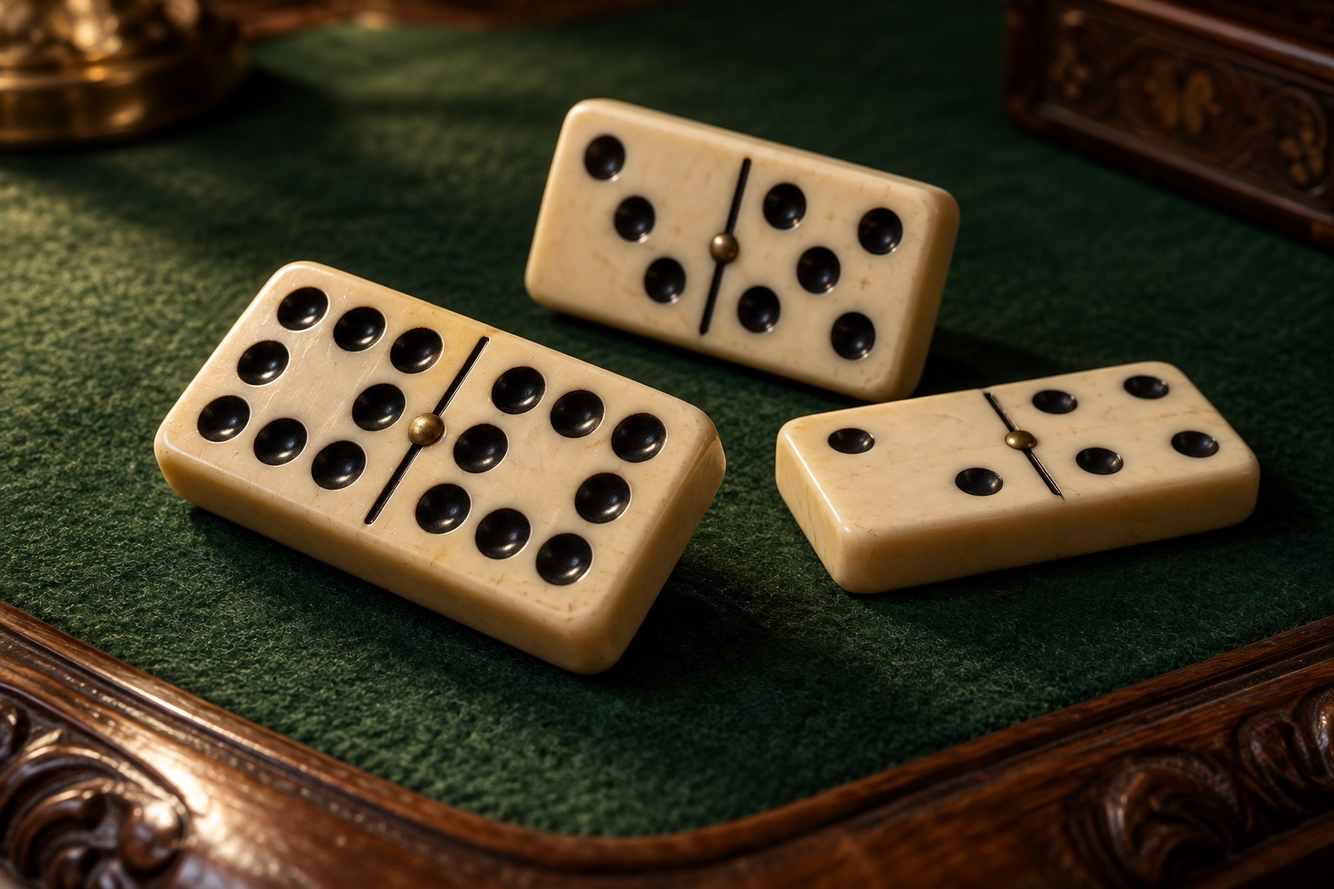
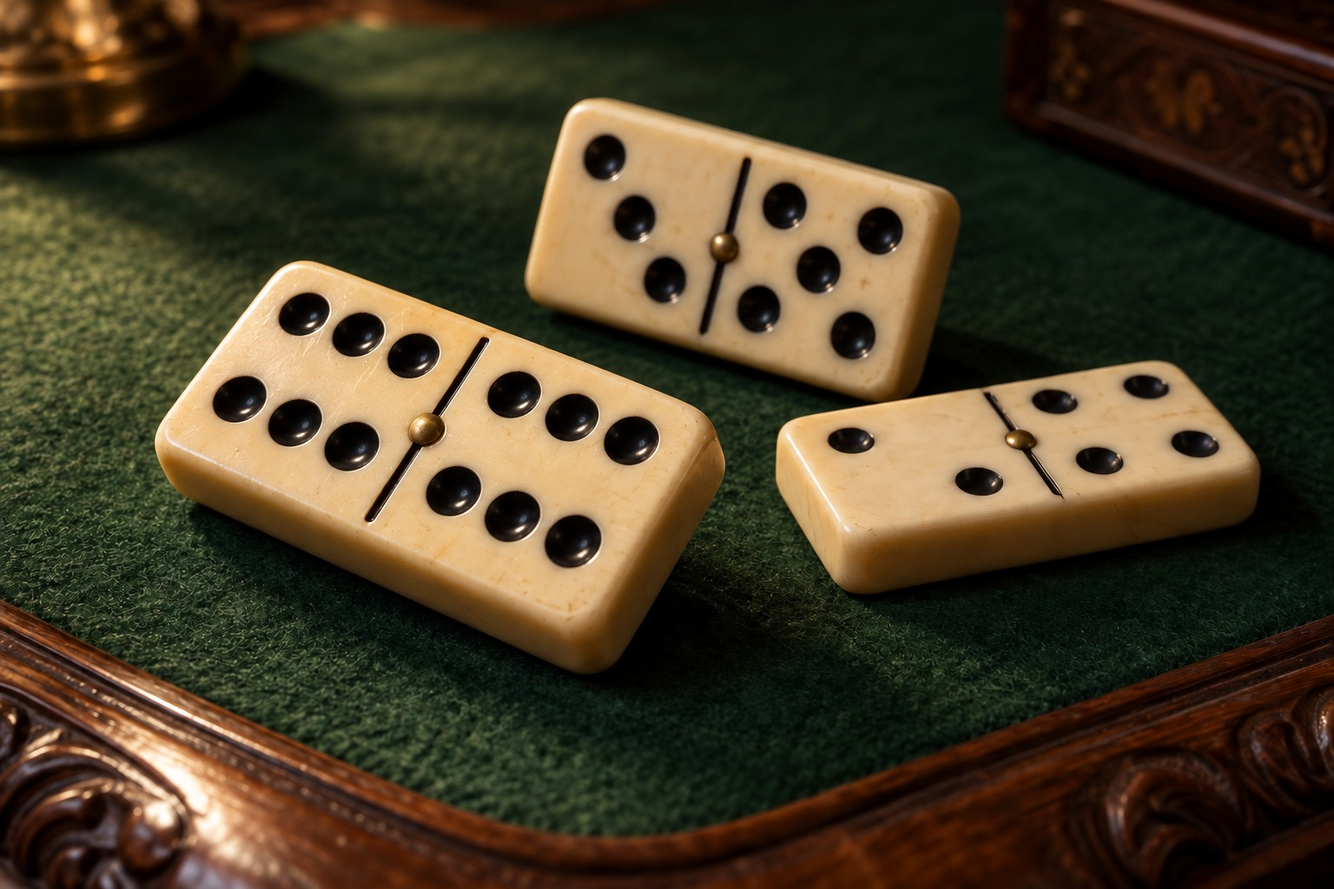
Enlarge domino table and correct hero pip counts

diff --git a/домино.html b/домино.html
@@ -1,10 +1,10 @@
-<!doctype html><html lang="ru"><head><meta charset="utf-8"><meta name="viewport" content="width=device-width,initial-scale=1,viewport-fit=cover"><title>Домино — Игры с друзьями</title><link rel="stylesheet" href="style.css?v=83"><link rel="stylesheet" href="style-домино.css?v=1"><script>window.ИграСтраницы='домино';</script><script src="https://telegram.org/js/telegram-web-app.js" defer></script><link rel="stylesheet" href="style-коллекция.css?v=1">
+<!doctype html><html lang="ru"><head><meta charset="utf-8"><meta name="viewport" content="width=device-width,initial-scale=1,viewport-fit=cover"><title>Домино — Игры с друзьями</title><link rel="stylesheet" href="style.css?v=83"><link rel="stylesheet" href="style-домино.css?v=2"><script>window.ИграСтраницы='домино';</script><script src="https://telegram.org/js/telegram-web-app.js" defer></script><link rel="stylesheet" href="style-коллекция.css?v=1">
 <link rel="stylesheet" href="style-настольные-фото.css?v=1">
 <link rel="stylesheet" href="style-домино-стол.css?v=1">
 </head><body class="домино"><main id="приложение">
-<section id="экран-лобби" class="экран экран--виден фото-лобби"><div class="дом-верх"><button data-назад aria-label="Назад">‹</button><span>Игры с друзьями</span><button data-меню aria-label="Ещё">···</button></div><header class="фото-лобби__заголовок"><h1>Домино</h1><p class="дом-тихо">Классическое · 2–4 игрока</p></header><button id="дом-продолжить" class="кнопка скрыт">Продолжить партию с ботами</button><button id="лобби-профиль" class="карточка-профиля"><span class="фото-лобби__аватар"><img src="img/дурак/значки/avatar.svg" alt="" aria-hidden="true"></span><span class="фото-лобби__профиль"><strong id="лобби-имя">Вы</strong><small>Мой профиль и результаты</small></span><img src="img/дурак/значки/chevron-right.svg" alt="" aria-hidden="true"></button><figure id="дом-афиша" class="фото-лобби__обложка"><img src="img/домино/лобби-фото.jpg" alt="Костяшки из слоновой кости на зелёном сукне" fetchpriority="high"><figcaption>Хороший ход.<br>Отличная компания.</figcaption></figure><div class="фото-лобби__входы"><button id="лобби-найти-игру" class="карточка-входа карточка-входа--играть-онлайн"><span class="карточка-входа__значок"><img src="img/дурак/значки/globe.svg" alt="" aria-hidden="true"></span><span class="карточка-входа__текст"><strong class="карточка-входа__название">Играть онлайн</strong><span class="карточка-входа__подпись">Найдите стол или пригласите друзей</span></span><span class="карточка-входа__стрелка"><img src="img/дурак/значки/chevron-right.svg" alt="" aria-hidden="true"></span></button><button id="дом-боты" class="карточка-входа"><span class="карточка-входа__значок"><img src="img/дурак/значки/robot.svg" alt="" aria-hidden="true"></span><span class="карточка-входа__текст"><strong class="карточка-входа__название">Играть с ботами</strong><span class="карточка-входа__подпись">Тренировка в своём темпе</span></span><span class="карточка-входа__стрелка"><img src="img/дурак/значки/chevron-right.svg" alt="" aria-hidden="true"></span></button><button id="лобби-правила" class="карточка-входа"><span class="карточка-входа__значок"><svg viewBox="0 0 24 24" fill="none" stroke="currentColor" stroke-width="1.7" aria-hidden="true"><path d="M4 3h12l4 4v14H4Z"/><path d="M15 3v5h5M8 12h8M8 16h8"/></svg></span><span class="карточка-входа__текст"><strong class="карточка-входа__название">Как играть</strong><span class="карточка-входа__подпись">Кости, базар и подсчёт очков</span></span><span class="карточка-входа__стрелка"><img src="img/дурак/значки/chevron-right.svg" alt="" aria-hidden="true"></span></button></div><p id="дом-память" class="дом-тихо" role="status"></p><nav class="нижние-вкладки" aria-label="Разделы игры"></nav></section>
+<section id="экран-лобби" class="экран экран--виден фото-лобби"><div class="дом-верх"><button data-назад aria-label="Назад">‹</button><span>Игры с друзьями</span><button data-меню aria-label="Ещё">···</button></div><header class="фото-лобби__заголовок"><h1>Домино</h1><p class="дом-тихо">Классическое · 2–4 игрока</p></header><button id="дом-продолжить" class="кнопка скрыт">Продолжить партию с ботами</button><button id="лобби-профиль" class="карточка-профиля"><span class="фото-лобби__аватар"><img src="img/дурак/значки/avatar.svg" alt="" aria-hidden="true"></span><span class="фото-лобби__профиль"><strong id="лобби-имя">Вы</strong><small>Мой профиль и результаты</small></span><img src="img/дурак/значки/chevron-right.svg" alt="" aria-hidden="true"></button><figure id="дом-афиша" class="фото-лобби__обложка"><img src="img/домино/лобби-фото.jpg?v=2" alt="Костяшки из слоновой кости на зелёном сукне" fetchpriority="high"><figcaption>Хороший ход.<br>Отличная компания.</figcaption></figure><div class="фото-лобби__входы"><button id="лобби-найти-игру" class="карточка-входа карточка-входа--играть-онлайн"><span class="карточка-входа__значок"><img src="img/дурак/значки/globe.svg" alt="" aria-hidden="true"></span><span class="карточка-входа__текст"><strong class="карточка-входа__название">Играть онлайн</strong><span class="карточка-входа__подпись">Найдите стол или пригласите друзей</span></span><span class="карточка-входа__стрелка"><img src="img/дурак/значки/chevron-right.svg" alt="" aria-hidden="true"></span></button><button id="дом-боты" class="карточка-входа"><span class="карточка-входа__значок"><img src="img/дурак/значки/robot.svg" alt="" aria-hidden="true"></span><span class="карточка-входа__текст"><strong class="карточка-входа__название">Играть с ботами</strong><span class="карточка-входа__подпись">Тренировка в своём темпе</span></span><span class="карточка-входа__стрелка"><img src="img/дурак/значки/chevron-right.svg" alt="" aria-hidden="true"></span></button><button id="лобби-правила" class="карточка-входа"><span class="карточка-входа__значок"><svg viewBox="0 0 24 24" fill="none" stroke="currentColor" stroke-width="1.7" aria-hidden="true"><path d="M4 3h12l4 4v14H4Z"/><path d="M15 3v5h5M8 12h8M8 16h8"/></svg></span><span class="карточка-входа__текст"><strong class="карточка-входа__название">Как играть</strong><span class="карточка-входа__подпись">Кости, базар и подсчёт очков</span></span><span class="карточка-входа__стрелка"><img src="img/дурак/значки/chevron-right.svg" alt="" aria-hidden="true"></span></button></div><p id="дом-память" class="дом-тихо" role="status"></p><nav class="нижние-вкладки" aria-label="Разделы игры"></nav></section>
 <section id="дом-настройки" class="экран"><div class="дом-верх"><button data-назад aria-label="Назад">‹</button><span>Игры с друзьями</span><button data-меню aria-label="Ещё">···</button></div><h1>Ваш стол</h1><div class="дом-панель дом-сбор-стола"><h2>Соберите свой стол</h2><p class="дом-тихо">Нажмите свободное место, чтобы посадить бота.</p><div id="дом-выбор-число" class="дом-выбор-числа" role="radiogroup" aria-label="Игроков за столом"></div><div id="дом-выбор-стол" class="рассадка дом-выбор-стол" aria-label="Места за столом"></div><p id="дом-выбор-состав" class="дом-тихо" role="status"></p><div class="дом-настройки"><select hidden aria-label="Игроков за столом" id="дом-мест"><option value="2">Двое</option><option value="3">Трое</option><option value="4">Четверо</option></select><div class="дом-выбор-параметра"><strong>До скольких очков?</strong><div id="дом-выбор-цель" class="дом-выбор-числа" role="radiogroup" aria-label="Цель партии"></div><select hidden aria-label="Цель партии" id="дом-цель"><option value="50">50 очков</option><option value="100">100 очков</option><option value="150">150 очков</option></select></div><div class="дом-выбор-параметра"><strong>Сила ботов</strong><div id="дом-выбор-уровень" class="дом-выбор-числа" role="radiogroup" aria-label="Сила ботов"></div><select hidden aria-label="Сила ботов" id="дом-уровень"><option value="лёгкий">Лёгкий</option><option value="обычный">Обычный</option><option value="сложный">Сложный</option></select></div></div><p class="дом-тихо">Каждый за себя. Боты не видят чужие кости и базар.</p><button id="дом-начать" class="кнопка кнопка--главная">Начать игру</button></div></section>
-<section id="экран-игры" class="экран"><div class="дом-верх"><button data-назад aria-label="Назад">‹</button><h1>Домино</h1><span id="дом-раунд" class="дом-тихо"></span><button data-меню aria-label="Ещё">···</button></div><div id="дом-счёт" class="дом-счёт"></div><div class="дом-стол"><div class="дом-стол-шапка"><span id="дом-базар"></span><button id="дом-увеличить">Вся цепь ↗</button></div><div id="дом-цепь" class="дом-цепь" aria-label="Цепь домино"></div><div class="дом-концы"><button id="дом-лево" class="кнопка">← Левый конец</button><button id="дом-право" class="кнопка">Правый конец →</button></div></div><div id="дом-очередь" class="дом-очередь" role="status"><strong id="дом-кто"></strong><small id="дом-подсказка"></small></div><div class="дом-зона-руки"><small id="дом-рука-подпись" class="дом-тихо">Ваши кости</small><div id="дом-рука" class="дом-рука" aria-label="Ваши кости" tabindex="0"></div></div><div class="дом-действия"><button id="дом-действие" class="кнопка кнопка--главная">Выберите кость</button><button id="кнопка-эмоции" class="кнопка">Сказать</button><button id="дом-правила" class="кнопка" aria-label="Правила">ⓘ</button></div><p id="строка-связи" class="скрыт" role="status"></p></section>
+<section id="экран-игры" class="экран"><div class="дом-верх"><button data-назад aria-label="Назад">‹</button><h1>Домино</h1><span id="дом-раунд" class="дом-тихо"></span><button data-меню aria-label="Ещё">···</button></div><div id="дом-счёт" class="дом-счёт"></div><div class="дом-стол"><div class="дом-стол-шапка"><span id="дом-базар"></span><button id="дом-увеличить">Увеличить ↗</button></div><div id="дом-цепь" class="дом-цепь" aria-label="Цепь домино"></div><div class="дом-концы"><button id="дом-лево" class="кнопка">← Левый конец</button><button id="дом-право" class="кнопка">Правый конец →</button></div></div><div id="дом-очередь" class="дом-очередь" role="status"><strong id="дом-кто"></strong><small id="дом-подсказка"></small></div><div class="дом-зона-руки"><small id="дом-рука-подпись" class="дом-тихо">Ваши кости</small><div id="дом-рука" class="дом-рука" aria-label="Ваши кости" tabindex="0"></div></div><div class="дом-действия"><button id="дом-действие" class="кнопка кнопка--главная">Выберите кость</button><button id="кнопка-эмоции" class="кнопка">Сказать</button><button id="дом-правила" class="кнопка" aria-label="Правила">ⓘ</button></div><p id="строка-связи" class="скрыт" role="status"></p></section>
 <section id="экран-друга" class="экран"><div class="дом-верх"><button data-назад aria-label="Назад">‹</button><span>Игры с друзьями</span><button data-меню aria-label="Ещё">···</button></div><button id="кнопка-с-другом" class="скрыт">Создать игру</button><h1>Ваш стол</h1><div class="дом-панель дом-сбор-стола"><h2>Соберите свой стол</h2><p class="дом-тихо">Нажмите место, чтобы пригласить друга или посадить бота.</p><div id="дом-онлайн-число" class="дом-выбор-числа" role="radiogroup" aria-label="Игроков за столом"></div><div id="дом-онлайн-стол" class="рассадка дом-выбор-стол" aria-label="Места за столом"></div><p id="дом-онлайн-состав" class="дом-тихо" role="status"></p><div class="дом-настройки"><select hidden aria-label="Игроков за столом" id="домино-мест-друга"><option value="2">Двое</option><option value="3">Трое</option><option value="4">Четверо</option></select><div class="дом-выбор-параметра"><strong>До скольких очков?</strong><div id="дом-онлайн-цель" class="дом-выбор-числа" role="radiogroup" aria-label="Цель партии"></div><select hidden aria-label="Цель партии" id="домино-цель-друга"><option value="50">50 очков</option><option value="100" selected>100 очков</option><option value="150">150 очков</option></select></div></div><p>2–4 игрока · 28 костей · с базаром</p><p class="дом-тихо">Стол появится в онлайн-списке. Друга можно пригласить по коду.</p><button id="кнопка-создать-игру" class="кнопка кнопка--главная">Создать игру</button></div>    <button id="кнопка-вернуться-в-игру" class="кнопка скрыт">Вернуться к игре с другом</button>
     <div class="деберц-пригласили"><div><strong>Уже пригласили?</strong><p>Присоединитесь к столу друзей</p></div><button id="кнопка-войти-по-коду" class="кнопка">Ввести код <span aria-hidden="true">↗</span></button></div>
     <p id="сообщение-друга" class="сеть-сообщение скрыт"></p>
@@ -109,7 +109,7 @@
 <dialog id="дом-результат"><h2 id="дом-итог-заголовок"></h2><p id="дом-итог-подпись" class="дом-тихо"></p><div id="дом-итоги" class="дом-итоги"></div><details><summary>Все раунды и подсчёт</summary><div id="дом-раунды"></div></details><button id="дом-дальше" class="кнопка кнопка--главная">Следующий раунд</button><button id="дом-посмотреть" class="кнопка">Посмотреть стол</button><button id="дом-в-лобби" class="кнопка">В лобби</button></dialog>
 <dialog id="дом-подтверждение"><h2>Сдаться?</h2><p>Партия завершится. Остальным участникам будет записана победа.</p><button id="дом-сдаться" class="кнопка">Да, сдаться</button><form method="dialog"><button class="кнопка кнопка--главная">Продолжить игру</button></form></dialog>
 <dialog id="дом-новая"><h2>Начать новую партию?</h2><p>Сохранённая партия с ботами будет заменена.</p><button id="дом-новая-да" class="кнопка кнопка--главная">Новая партия</button><form method="dialog"><button id="дом-старую" class="кнопка">Продолжить старую</button></form></dialog>
-<dialog id="дом-обзор"><h2>Вся цепь</h2><div id="дом-цепь-большая" class="дом-цепь"></div><form method="dialog"><button class="кнопка">Закрыть</button></form></dialog>
+<dialog id="дом-обзор" aria-label="Увеличенный стол"><h2>Игровой стол</h2><div id="дом-цепь-большая" class="дом-цепь"></div><form method="dialog"><button class="кнопка">Вернуться к игре</button></form></dialog>
 <dialog id="дом-история"><h2>Мои партии</h2><div id="дом-история-список"></div><form method="dialog"><button class="кнопка">Закрыть</button></form></dialog>
 <div id="лист-игры" class="лист-ещё скрыт" role="dialog" aria-modal="true" aria-labelledby="лист-игры-заголовок">
     <div id="лист-игры-фон" class="лист-ещё__фон"></div>
@@ -123,4 +123,4 @@
     </div>
   </div>
 </main>
-<script src="js/telegram.js?v=29"></script><script src="js/лист-ещё.js?v=6"></script><script src="js/рейтинг-экран.js?v=33"></script><script src="js/профиль-экран.js?v=1"></script><script src="js/домино-правила.js?v=1"></script><script src="js/домино-бот.js?v=1"></script><script src="js/домино-память.js?v=1"></script><script src="js/домино-кости.js?v=2"></script><script src="js/деберц-знаки.js?v=1"></script><script src="js/деберц-сказать.js?v=3"></script><script src="js/нижние-вкладки.js?v=10"></script><script src="js/лобби-настольных.js?v=1"></script><script src="js/домино-экран.js?v=3"></script><script src="js/дурак-комната.js?v=13"></script><script src="js/сеть.js?v=54"></script><script src="js/деберц-онлайн.js?v=1"></script><script src="js/открытые-столы.js?v=3"></script><script src="js/домино-стол.js?v=1"></script></body></html>
+<script src="js/telegram.js?v=29"></script><script src="js/лист-ещё.js?v=6"></script><script src="js/рейтинг-экран.js?v=33"></script><script src="js/профиль-экран.js?v=1"></script><script src="js/домино-правила.js?v=1"></script><script src="js/домино-бот.js?v=1"></script><script src="js/домино-память.js?v=1"></script><script src="js/домино-кости.js?v=3"></script><script src="js/деберц-знаки.js?v=1"></script><script src="js/деберц-сказать.js?v=3"></script><script src="js/нижние-вкладки.js?v=10"></script><script src="js/лобби-настольных.js?v=1"></script><script src="js/домино-экран.js?v=4"></script><script src="js/дурак-комната.js?v=13"></script><script src="js/сеть.js?v=54"></script><script src="js/деберц-онлайн.js?v=1"></script><script src="js/открытые-столы.js?v=3"></script><script src="js/домино-стол.js?v=1"></script></body></html>

diff --git a/tests/домино-большой-стол.js b/tests/домино-большой-стол.js
@@ -1,0 +1,62 @@
+'use strict';
+const assert = require('node:assert/strict');
+const { chromium, подготовитьПодделку } = require('./браузер-робот');
+(async () => {
+  const browser = await chromium.launch({headless:true});
+  try {
+    const p = await browser.newPage({reducedMotion:'reduce'});
+    await подготовитьПодделку(p,{версия:'9.0'});
+    await p.goto('http://127.0.0.1:8137/домино.html');
+    await p.evaluate(() => {
+      ПоддельныйТелеграм.поменятьОтступы({системные:{top:24,bottom:16},содержимого:{top:48}});
+      const rules=ДоминоПравила, v=rules.вид(rules.создать(4,150),0);
+      // Стресс представления: все 28 костей, включая семь вертикальных дублей.
+      v.цепь=rules.КОСТИ.map(([a,b],id)=>({a,b,id,кто:id%4}));
+      window.testView=v;
+      ИграПоСети.показатьВид({код:'layout',версия:1,домино:v});
+    });
+    const visible = selector => p.locator(selector).evaluate(root => {
+      const box=root.getBoundingClientRect();
+      return [...root.querySelectorAll('.дом-на-столе')].every(e=>{
+        const r=e.getBoundingClientRect();
+        return r.left>=box.left && r.right<=box.right+1 && r.top>=box.top && r.bottom<=box.bottom+1;
+      });
+    });
+    for(const [width,height] of [[390,844],[320,640],[768,1024],[1280,720],[844,390]]) {
+      await p.setViewportSize({width,height});
+      await p.locator('#дом-увеличить').click();
+      const modal=await p.locator('#дом-обзор').boundingBox();
+      assert(modal.y>=72 && modal.y+modal.height<=height-16+1,'Диалог выходит под Telegram');
+      assert.equal(await p.locator('#дом-цепь-большая .дом-на-столе').count(),28);
+      if(width!==320 && height>520) assert(await visible('#дом-цепь-большая'),`28 костей не видны ${width}×${height}`);
+      const overlaps=await p.locator('#дом-цепь-большая .дом-на-столе').evaluateAll(es=>{
+        const rs=es.map(e=>e.getBoundingClientRect());
+        return rs.some((a,i)=>rs.slice(i+1).some(b=>Math.min(a.right,b.right)>Math.max(a.left,b.left)+1 && Math.min(a.bottom,b.bottom)>Math.max(a.top,b.top)+1));
+      });
+      assert(!overlaps,'Кости перекрываются');
+      if(width===390) {
+        await p.screenshot({path:'tests/снимки/домино-увеличенный-стол-390.png'});
+        const bad=await p.addStyleTag({content:'#дом-цепь-большая {max-height:100px!important}'});
+        assert.equal(await visible('#дом-цепь-большая'),false,'Проверка должна обнаруживать обрезку');
+        await bad.evaluate(e=>e.remove());
+        // Открытый обзор обновляется при приходе следующего состояния.
+        await p.evaluate(()=>ИграПоСети.показатьВид({код:'layout',версия:2,домино:{...testView,цепь:testView.цепь.slice(0,27)}}));
+        assert.equal(await p.locator('#дом-цепь-большая .дом-на-столе').count(),27);
+        await p.evaluate(()=>ИграПоСети.показатьВид({код:'layout',версия:3,домино:testView}));
+      }
+      await p.getByRole('button',{name:'Вернуться к игре',exact:true}).click();
+      if(width===1280) {
+        const table=await p.locator('.дом-стол').boundingBox();
+        assert(table.width>=800 && table.height>=450,'Стол остался маленьким');
+        assert(await visible('#дом-цепь'),'28 костей не помещаются на основном столе компьютера');
+        await p.screenshot({path:'tests/снимки/домино-большой-стол-1280.png'});
+      }
+    }
+    // Перестройка цепи при повороте устройства с уже открытым обзором.
+    await p.locator('#дом-увеличить').click();
+    await p.setViewportSize({width:390,height:844});
+    await p.waitForTimeout(100);
+    assert(await visible('#дом-цепь-большая'));
+    console.log('Большой стол: 4 игрока / 150, 28 костей, пять экранов, обновление и поворот обзора, отрицательный контроль — OK');
+  } finally {await browser.close();}
+})().catch(e=>{console.error(e);process.exitCode=1;});

diff --git a/style-домино.css b/style-домино.css
@@ -98,6 +98,27 @@
 @media(max-height:520px) and (min-width:600px) { .дом-зона-руки { grid-column:2; grid-row:4; } }
 @media(prefers-reduced-motion:reduce) { .домино *, .домино *::after { animation:none!important; transition:none!important; } }
 
+/* Игровой стол использует ширину экрана, лобби сохраняет свой размер. */
+body.домино #экран-игры { padding-inline:max(8px,calc((100% - 1120px)/2)); gap:6px; }
+body.домино #экран-игры .дом-стол { padding:14px; }
+body.домино #экран-игры .дом-игрок { grid-template-columns:minmax(0,1fr) auto; padding:7px; gap:3px; }
+body.домино #экран-игры .дом-игрок strong { grid-column:2; grid-row:1/3; font-size:23px; }
+body.домино #экран-игры .дом-закрытые { grid-column:1/-1; min-height:19px; }
+body.домино #дом-обзор { width:min(1100px,calc(100vw - 16px)); max-width:none; height:calc(100dvh - var(--отступ-сверху,0px) - var(--отступ-снизу,0px) - 16px); max-height:calc(100dvh - var(--отступ-сверху,0px) - var(--отступ-снизу,0px) - 16px); padding:12px; overflow:hidden; }
+body.домино #дом-обзор[open] { display:grid; grid-template-rows:auto minmax(0,1fr) auto; gap:12px; }
+body.домино #дом-обзор > * { margin:0; }
+body.домино #дом-обзор #дом-цепь-большая { min-height:0; height:auto; padding:0; }
+@media(min-width:1000px) and (min-height:521px) {
+  body.домино #экран-игры.экран--виден { grid-template-columns:minmax(0,1fr) 280px; grid-template-rows:38px auto auto minmax(120px,1fr) 44px; gap:8px 12px; }
+  body.домино #экран-игры .дом-верх, body.домино #экран-игры .дом-счёт { grid-column:1/-1; }
+  body.домино #экран-игры .дом-стол { grid-column:1; grid-row:3/6; padding:32px; }
+  body.домино #экран-игры .дом-очередь { grid-column:2; grid-row:3; }
+  body.домино #экран-игры .дом-зона-руки { grid-column:2; grid-row:4; justify-content:center; }
+  body.домино #экран-игры .дом-действия { grid-column:2; grid-row:5; }
+  body.домино #экран-игры .дом-действия .кнопка { padding:8px; font-size:12px; }
+}
+@media(max-width:400px) { body.домино #экран-игры .дом-счёт { gap:4px; } body.домино #экран-игры .дом-игрок { padding:5px; } body.домино #экран-игры .дом-игрок strong { font-size:20px; } }
+
 /* Материалы общего эталона: дерево и ткань. */
 .дом-стол { --сукно-свет:#2a5039; --сукно:#173824; --сукно-тень:#0e2318; --дерево-свет:#aa8455; --дерево:#80603d; --дерево-тень:#493821; border-color:transparent;
   background:

diff --git a/js/домино-кости.js b/js/домино-кости.js
@@ -14,18 +14,29 @@
   function цепь(root, chain, last) {
     // Реальная ширина дубля — 39, обычной кости — 78: стыкуем их,
     // а не разбрасываем по одинаковым ячейкам с большими промежутками.
-    const edge = 6, right = root.clientWidth - edge, cellH = 94;
+    const edge = 6, right = root.clientWidth - edge;
     let row = 0, cursor = edge;
+    const rows = [[]];
     const points = chain.map(t => {
       const width = t.a === t.b ? 39 : 78;
       if (row % 2 ? cursor - width < edge : cursor + width > right) {
-        row++; cursor = row % 2 ? right : edge;
+        row++; rows.push([]); cursor = row % 2 ? right : edge;
       }
       const reverse = row % 2, x = cursor + (reverse ? -width / 2 : width / 2);
       cursor += (reverse ? -1 : 1) * (width + 3);
-      return [x, row * cellH + cellH / 2, reverse];
+      const point = [x, 0, reverse];
+      rows[row].push({ point, height:t.a === t.b ? 78 : 39 });
+      return point;
     });
-    const inner = document.createElement('div'); inner.className = 'дом-цепь-внутри'; inner.style.height = `${Math.max(2, row + 1) * cellH}px`;
+    // Между обычными рядами больше не остаётся пустой полосы в полкостяшки.
+    // Высоту ряда задаёт самая высокая кость (вертикальный дубль, если он есть).
+    let bottom = 7;
+    for (const items of rows) {
+      const height = Math.max(39, ...items.map(t => t.height));
+      items.forEach(t => { t.point[1] = bottom + height / 2; });
+      bottom += height + 9;
+    }
+    const inner = document.createElement('div'); inner.className = 'дом-цепь-внутри'; inner.style.height = `${bottom}px`;
     if (points.length > 1) {
       const svg = document.createElementNS('http://www.w3.org/2000/svg', 'svg'); svg.setAttribute('aria-hidden', 'true');
       const line = document.createElementNS(svg.namespaceURI, 'polyline'); line.setAttribute('points', points.map(p => p.slice(0,2).join(',')).join(' ')); svg.append(line); inner.append(svg);

diff --git a/js/домино-экран.js b/js/домино-экран.js
@@ -105,6 +105,7 @@
     }));
     $('дом-базар').textContent = `Базар: ${вид.базар} костей`;
     К.цепь($('дом-цепь'), вид.цепь, вид.последнее);
+    if ($('дом-обзор').open) К.цепь($('дом-цепь-большая'), вид.цепь, вид.последнее);
     const last = вид.последнее, key = `${вид.раунд}:${вид.цепь.length}:${JSON.stringify(last)}`;
     if (last && key !== lastKey) {
       lastKey = key;
@@ -199,7 +200,12 @@
   };
   $('кнопка-комната-назад')?.addEventListener('click', () => $('кнопка-комната-отмена').click());
   $('кнопка-комната-ещё')?.addEventListener('click', () => открыть('дом-справка'));
-  window.addEventListener('resize', () => { if (вид && $('экран-игры').classList.contains('экран--виден')) К.цепь($('дом-цепь'), вид.цепь, вид.последнее); });
+  window.addEventListener('resize', () => {
+    if (вид && $('экран-игры').classList.contains('экран--виден')) {
+      К.цепь($('дом-цепь'), вид.цепь, вид.последнее);
+      if ($('дом-обзор').open) К.цепь($('дом-цепь-большая'), вид.цепь, вид.последнее);
+    }
+  });
   window.addEventListener('load', () => window.Телеграм?.показатьСтрелку(назад));
   экран('экран-лобби');
 })();

diff --git a/tests/домино-браузер.js b/tests/домино-браузер.js
@@ -5,7 +5,7 @@ const assert = require('node:assert/strict'), { chromium, безTelegram } = req
   try {
     const p = await b.newPage({ reducedMotion: 'reduce' }); const errors = []; p.on('pageerror', e => errors.push(e.message)); await безTelegram(p);
     await p.goto('http://127.0.0.1:8137/домино.html');
-    await p.locator('#дом-боты').click(); await p.locator('#дом-выбор-число').getByRole('radio', { name:'Четверо' }).click(); await p.locator('#дом-выбор-цель').getByRole('radio', { name:'50', exact:true }).click(); await p.locator('#дом-начать').click();
+    await p.locator('#дом-боты').click(); await p.locator('#дом-выбор-число').getByRole('radio', { name:'Четверо' }).click(); await p.locator('#дом-выбор-цель').getByRole('radio', { name:'150', exact:true }).click(); await p.locator('#дом-начать').click();
     for (const [width, height] of [[320,640],[390,844],[768,1024],[1280,720],[844,390]]) {
       await p.setViewportSize({ width, height });
       const boxes = await p.locator('.дом-стол,.дом-рука,.дом-действия').evaluateAll(es => es.map(e => e.getBoundingClientRect().toJSON()));

diff --git a/img/домино/источник.md b/img/домино/источник.md
@@ -4,7 +4,13 @@
 
 Исходники в `C:/Users/Admin/.codex/generated_images/01a0cd99-ef0d-72f3-9b68-13502906b339/`: обложка `exec-120cc69c-ed0e-4d8c-8d70-1af27517470a.png`, кость `exec-aca181e4-97e9-4a17-b102-29b14adf413e.png`, стол `exec-883f989f-1e47-4577-8c1a-32f90f50d376.png`.
 
-## лобби-фото.jpg
+## Исправление лобби-фото.jpg — 23.09.2026
+
+Встроенный image_gen, точечная правка исходной фотографии. Проверено визуально: передняя кость 6–6, задняя 3–5, справа 2–4. Сохранена как `img/домино/лобби-фото.jpg`; исходный результат: `C:/Users/Admin/.codex/generated_images/01a0cd99-ef0d-72f3-9b68-13502906b339/exec-2eb699b0-d69b-4140-aa05-ab7650e3c1fe.png`.
+
+Use case: precise-object-edit. Edit the supplied domino game lobby photograph. Preserve the entire luxurious green felt, carved walnut table, lighting, perspective and all three domino positions. Correct ONLY the large foreground left domino's pips: it must be a standard DOUBLE SIX, exactly SIX black inset circular pips on EACH half, arranged as TWO parallel rows of THREE (standard 6 dice pattern in the local plane). Currently each half incorrectly has eight pips; REMOVE the two extra middle-row pips on each half. The center divider and brass pin are NOT pips. Rear standing domino remains 3|5 (three left, five right). Right lying domino remains 2|4 (two left, four right). Absolutely no half with more than six pips. No text. Photorealistic polished ivory dominoes with accurate black recessed pips. Wide 1536x1024.
+
+## Первоначальный запрос лобби-фото.jpg
 
 Use case: product-mockup. Create one finished photorealistic hero photograph for a premium domino game lobby. Landscape 3:2. Three large ivory domino tiles on deep bottle-green wool baize, low three-quarter close-up camera, tactile aged ivory resin, softly rounded chamfered edges, black recessed pips, fine central scored lines and a small brass spinner pin. One double-six domino foreground angled left, one 3-5 behind leaning right, one 2-4 lying flat; strictly regular valid domino pips, beautiful realistic depth. A richly carved dark walnut game-table rim subtly visible along bottom corners. Warm side light from upper left, dark atmospheric surroundings, ultra detailed material photography, confident simple composition filling the frame with real objects, not tiny. All dominoes inside image, generous 8% margin. No typography, no UI, no logos, no text, no people, no flat vector shapes. Matches an elegant traditional photographic card game lobby with wood and felt.
 
